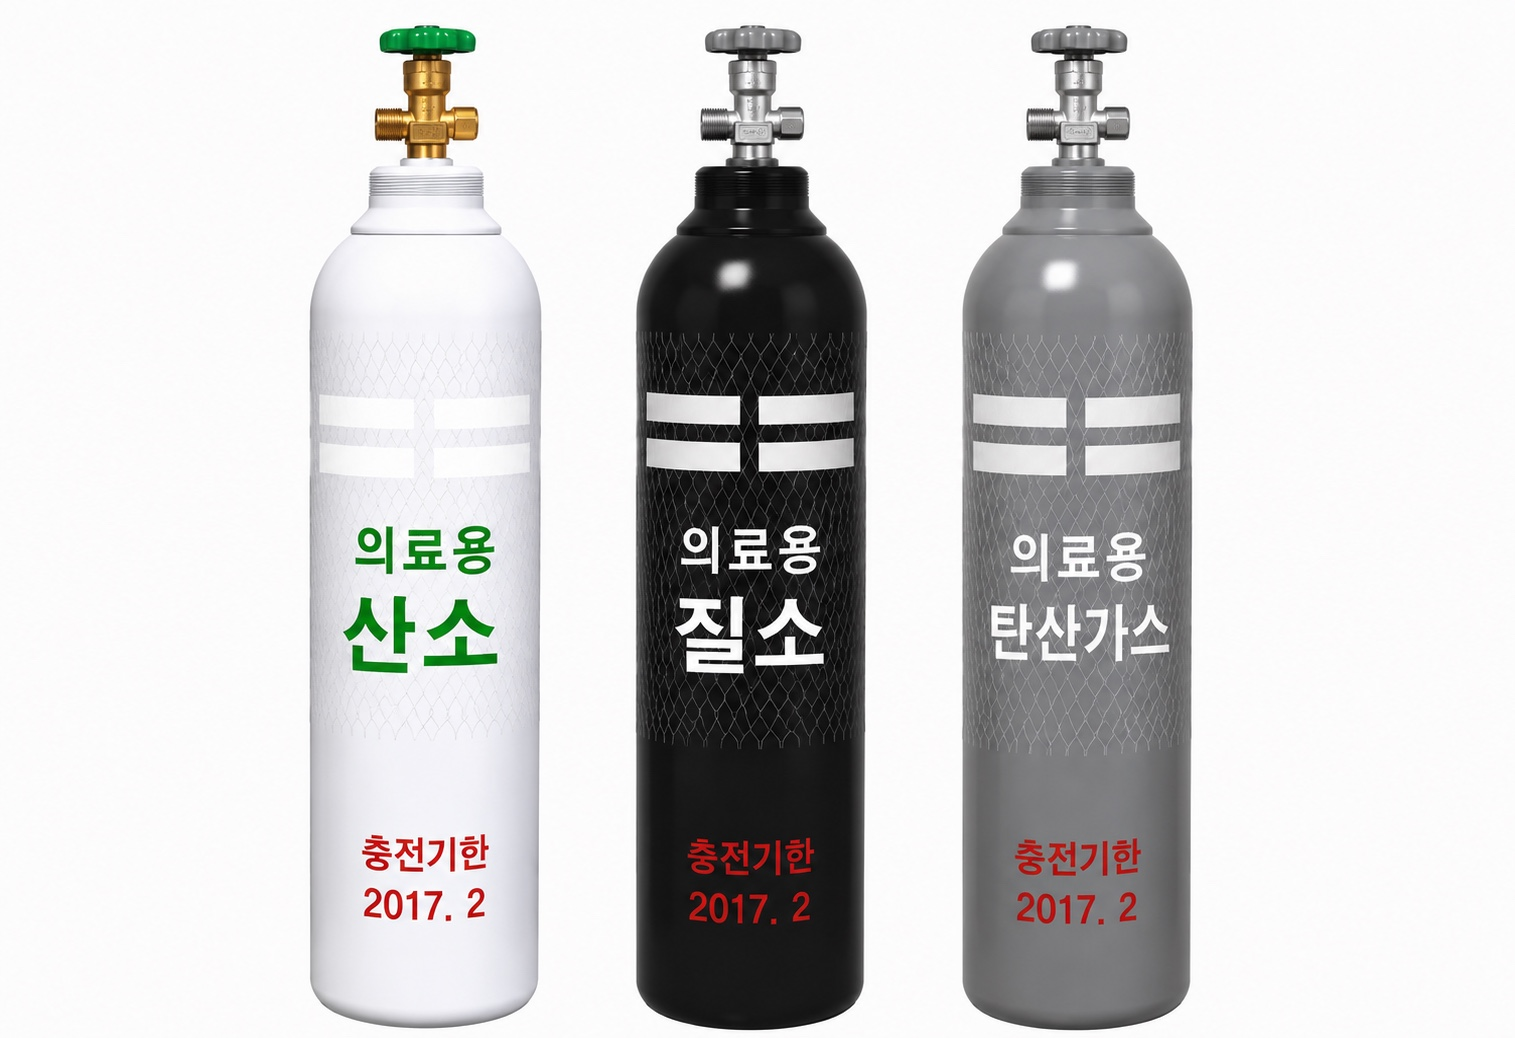
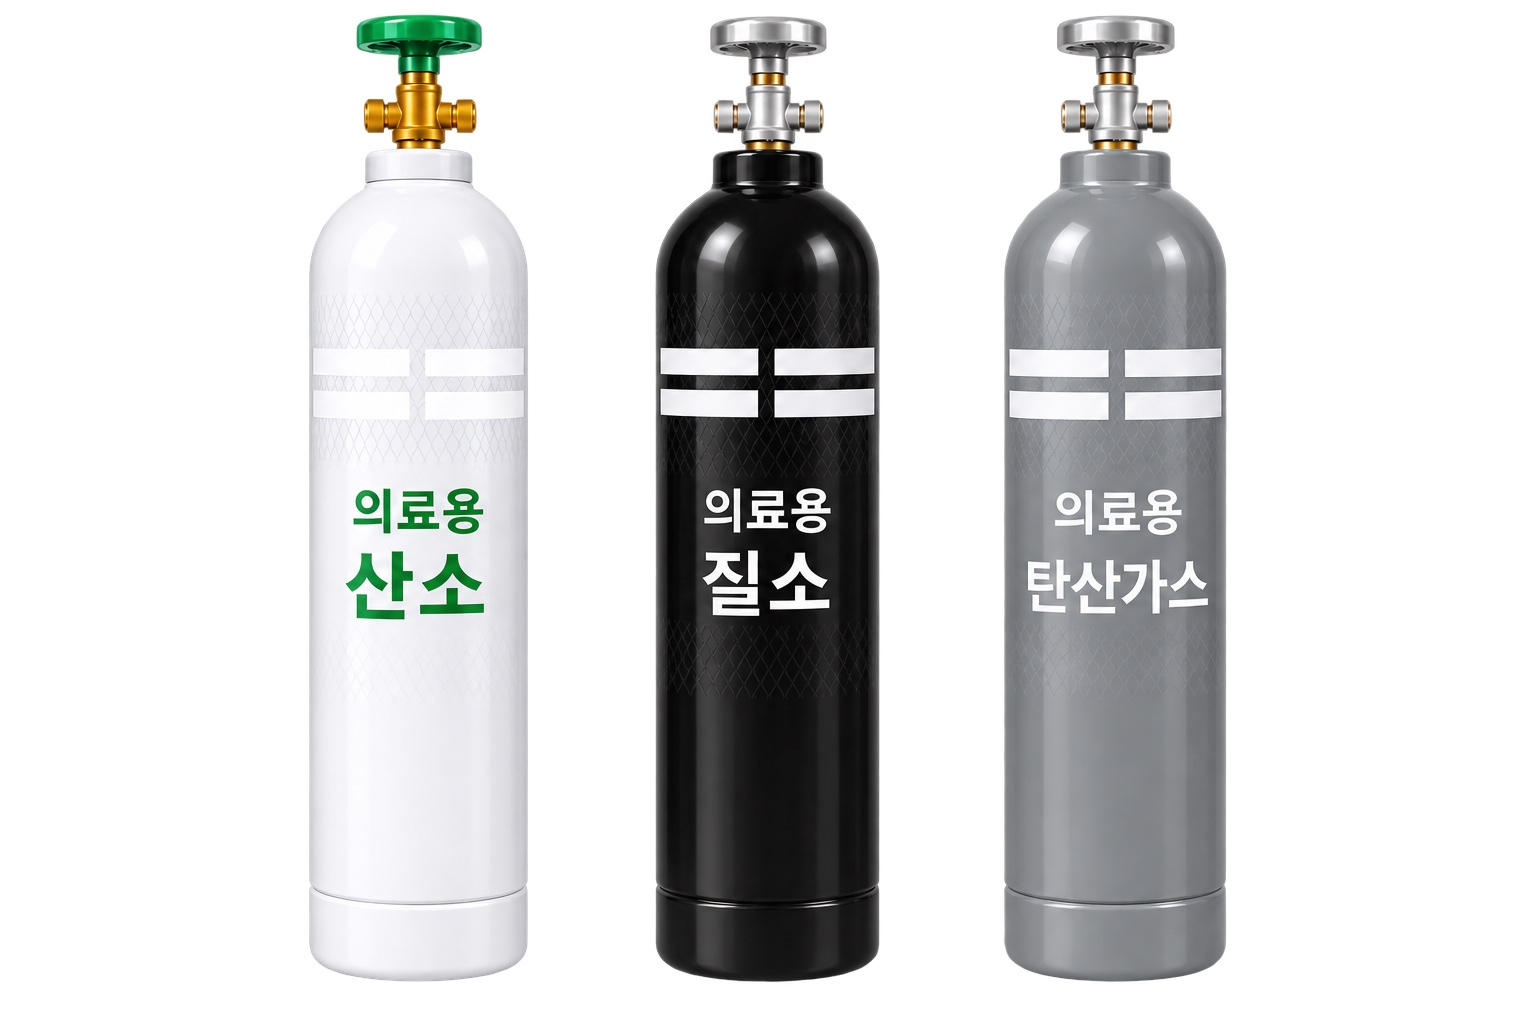
제품 라인업 의료용 가스 카드 사진을 신규 실린더 이미지로 교체(med-lineup.jpg ?v=20260909)

Changed region(s): [[0.6205, 0.0, 0.8066, 1.0], [0.4033, 0.0, 0.5894, 1.0], [0.1861, 0.0, 0.3723, 1.0]]

diff --git a/products-gas.html b/products-gas.html
@@ -197,7 +197,7 @@
                     <span class="pgcard__ic pgcard__ic--img" aria-hidden="true"><img src="assets/images/site/prodtab/ic-highpressure.png?v=20260909" alt="" loading="lazy"></span>
                     <div><b class="pgcard__name">의료용 가스</b><span class="pgcard__lead">생명의 가치를 지키는, 안전하고 깨끗한 의료용 가스를 공급합니다.</span></div>
                   </div>
-                  <a class="pgcard__media" href="support.html"><img src="assets/images/site/med-lineup.jpg?v=20260831" alt="의료용 산소·질소·탄산가스 실린더" loading="lazy"></a>
+                  <a class="pgcard__media" href="support.html"><img src="assets/images/site/med-lineup.jpg?v=20260909" alt="의료용 산소·질소·탄산가스 실린더" loading="lazy"></a>
                   <p class="pgcard__text pgcard__text--gases">의료용 산소, 의료용 질소, 의료용 탄산가스</p>
                 </li>
                 <li class="pgcard pgcard--titled">
